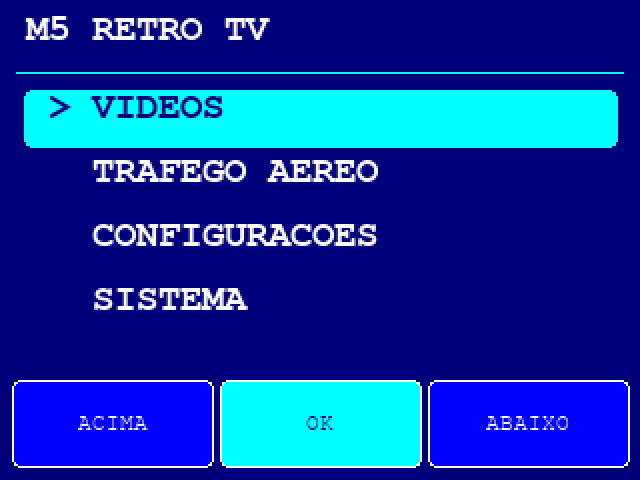
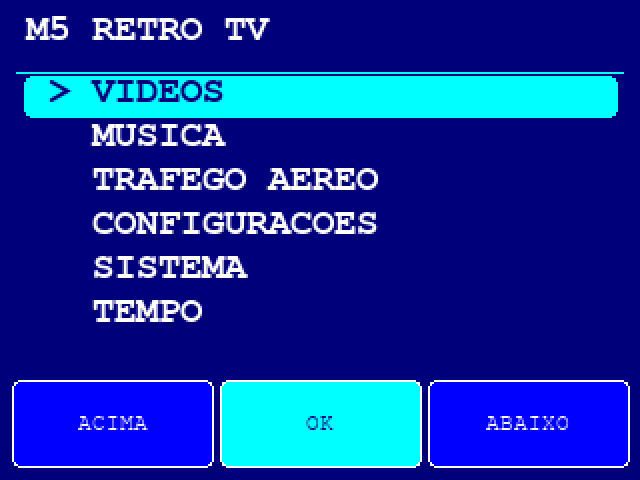
docs(screens): mockups atualizados (home 6 itens, radar com avioes, musica + now playing com capa) e README

Changed region(s): [[0.0312, 0.1562, 0.9688, 0.4062], [0.125, 0.4375, 0.5938, 0.6875]]

diff --git a/tools/render_screens.py b/tools/render_screens.py
@@ -95,17 +95,24 @@ def header(s, title):
     s.text(title, 12, 8, WHITE, M)
     s.hline(8, 36, 304, CYAN)
 
+def airplane(s, x, y, color):
+    # aviaozinho top-down apontando para "cima" (norte), como drawAirplane
+    s.d.line([x, y - 3, x, y + 3], fill=color)               # fuselagem
+    s.d.polygon([(x, y - 3), (x - 2, y + 1), (x + 2, y + 1)], fill=color)  # nariz
+    s.d.line([x - 4, y, x + 4, y], fill=color)               # asas
+    s.d.line([x - 2, y + 2, x + 2, y + 2], fill=color)       # cauda
+
 # ============================================================================
 def home():
     s = Screen()
-    items = ["VIDEOS", "TRAFEGO AEREO", "CONFIGURACOES", "SISTEMA"]
+    items = ["VIDEOS", "MUSICA", "TRAFEGO AEREO", "CONFIGURACOES", "SISTEMA", "TEMPO"]
     s.text("M5 RETRO TV", 12, 8, WHITE, M)
     s.hline(8, 36, 304, CYAN)
     for i, it in enumerate(items):
-        y = 48 + i * 32
+        y = 40 + i * 22
         sel = (i == 0)
         if sel:
-            s.roundrect(12, y - 3, 296, 28, 4, CYAN)
+            s.roundrect(12, y - 2, 296, 20, 4, CYAN)
         s.text(("> " if sel else "  ") + it, 24, y, NAVY if sel else WHITE, M)
     controller_labels(s, "ACIMA", "OK", "ABAIXO")
     s.save("docs/screens/home.png")
@@ -152,10 +159,10 @@ def radar():
     s.circle(105, 105, 62, CYAN)
     s.hline(43, 105, 124, DARKCYAN)
     s.vline(105, 43, 124, DARKCYAN)
-    s.triangle(105, 70, 3, 6, CYAN)   # selecionado
-    s.triangle(90, 120, 3, 6, YELLOW)
-    s.triangle(130, 95, 3, 6, YELLOW)
-    s.triangle(118, 140, 3, 6, YELLOW)
+    airplane(s, 105, 70, CYAN)   # selecionado
+    airplane(s, 90, 120, YELLOW)
+    airplane(s, 130, 95, YELLOW)
+    airplane(s, 118, 140, YELLOW)
     s.text("PT-ABC", 190, 62, WHITE, S)
     s.text("FL 350", 190, 82, WHITE, S)
     s.text("412 KT", 190, 98, WHITE, S)
@@ -199,6 +206,45 @@ def error():
     s.text("CARTAO SD NAO ENCONTRADO", 160, 130, CYAN, S, "mc")
     s.save("docs/screens/error.png")
 
+def music():
+    s = Screen()
+    header(s, "MUSICA")
+    s.text("/", 12, 42, DARKCYAN, S)
+    entries = [("Artista Teste", True), ("Album", True), ("faixa-avulsa.mp3", False), ("outra.wav", False)]
+    for row, (name, is_folder) in enumerate(entries[:4]):
+        y = 56 + row * 32
+        sel = (row == 0)
+        if sel:
+            s.roundrect(12, y - 2, 296, 28, 4, CYAN)
+        label = ("> " if sel else "  ") + name + ("/" if is_folder else "")
+        s.text(label[:40], 20, y + 6, NAVY if sel else (CYAN if is_folder else WHITE), S)
+    s.text("1 / 4", 216, 16, WHITE, S)
+    controller_labels(s, "ACIMA", "OK", "ABAIXO")
+    back_button(s)
+    s.save("docs/screens/music.png")
+
+def music_playing():
+    s = Screen()
+    header(s, "MUSICA")
+    # Capa do album (quadrado com borda ciano + nota musical desenhada)
+    s.roundrect(16, 52, 88, 88, 2, CYAN)
+    s.rect(18, 54, 84, 84, BLUE)
+    s.d.polygon([(64, 74), (54, 92), (74, 92)], fill=CYAN)
+    s.d.ellipse([56, 86, 70, 100], fill=CYAN)
+    s.d.line([70, 74, 70, 96], fill=CYAN)
+    s.d.line([70, 74, 78, 78], fill=CYAN)
+    # Tags
+    s.text("Musica de Teste", 120, 52, YELLOW, S)
+    s.text("ARTISTA COMICO", 120, 82, WHITE, S)
+    s.text("ALBUM DE EXEMPLO", 120, 102, WHITE, S)
+    s.text("2026", 120, 122, WHITE, S)
+    # Progresso
+    s.rect(16, 170, 288, 6, CYAN)
+    s.rect(17, 171, 80, 4, YELLOW)
+    s.text("PLAY 00:03 / 00:08", 16, 184, CYAN, S)
+    back_button(s)
+    s.save("docs/screens/music_playing.png")
+
 def weather():
     s = Screen()
     s.fill_screen(NAVY)
@@ -215,7 +261,7 @@ def weather():
 
 def main():
     os.makedirs("docs/screens", exist_ok=True)
-    for fn in (home, library, playback, radar, settings, info, portal, error, weather):
+    for fn in (home, library, playback, radar, settings, info, portal, error, weather, music, music_playing):
         fn()
         print("ok:", fn.__name__)
 

diff --git a/README.md b/README.md
@@ -31,6 +31,10 @@ pôster estático no LCD e consulta de tráfego aéreo por HTTPS. Interface em p
 |---|---|---|
 | ![Portal](docs/screens/portal.png) | ![Error](docs/screens/error.png) | ![Weather](docs/screens/weather.png) |
 
+| Música | Now Playing (capa + ID3) |
+|---|---|
+| ![Music](docs/screens/music.png) | ![Music Playing](docs/screens/music_playing.png) |
+
 ## Compilar
 
 Python 3.9 ou superior e acesso à internet são necessários na primeira compilação.
@@ -82,6 +86,25 @@ O conversor não substitui pastas existentes. Ele valida tamanho e quantidade de
 silêncio quando o vídeo não tem áudio e completa áudio curto até a duração do vídeo.
 Cada JPEG deve ter no máximo 128 KiB. `meta.json` é opcional quando os arquivos se chamam
 `video.mjpeg` e `audio.wav` e a taxa é 15 FPS.
+
+## Música (MP3/WAV)
+
+O menu inicial tem o item **MUSICA**, um player estilo iPod que navega por pastas do SD:
+
+```text
+/M5RETRO/music/
+  Artista/
+    Album/
+      cover.jpg  (ou folder.jpg)   <- capa do álbum, exibida na tela "now playing"
+      faixa.mp3                    <- MP3 (128/192/320 kbps, 44100 Hz) via libhelix
+      faixa.wav                    <- WAV PCM 16-bit 22050 Hz estéreo
+```
+
+Formato suportado: `.mp3` (decodificado por software e reamostrado para 22050 Hz) e `.wav`
+(PCM 16-bit estéreo 22050 Hz). As tags ID3v1/v2 (título/artista/álbum/ano) aparecem na tela, e os
+acentos são normalizados para ASCII por `include/Ascii.h`. A capa vem de `cover.jpg`/`folder.jpg`
+na pasta do álbum ou do frame `APIC` embutido no MP3. Arquivos de teste prontos estão em
+`test-music/` (com acentos e capa) — copie para `/M5RETRO/music/`.
 
 ## Controles
 
@@ -160,7 +183,8 @@ de teste físico. `PINOUT.md` descreve as conexões utilizadas pelo código.
 ## Diagnóstico USB
 
 Serial a 115200 baud: `diag status`, `diag colors`, `diag play`, `diag pause`, `diag resume`,
-`diag stop`, `diag back`, `diag home`, `diag radar` e `diag audio toggle`. O último comando usa
+`diag stop`, `diag back`, `diag home`, `diag radar`, `diag weather`, `diag music` e
+`diag audio toggle`. O último comando usa
 a mesma rotina do botão do player. O status informa saída de áudio, erros, amostras PCM,
 quadros descartados, heap e resultado HTTP, sem imprimir credenciais.
 
